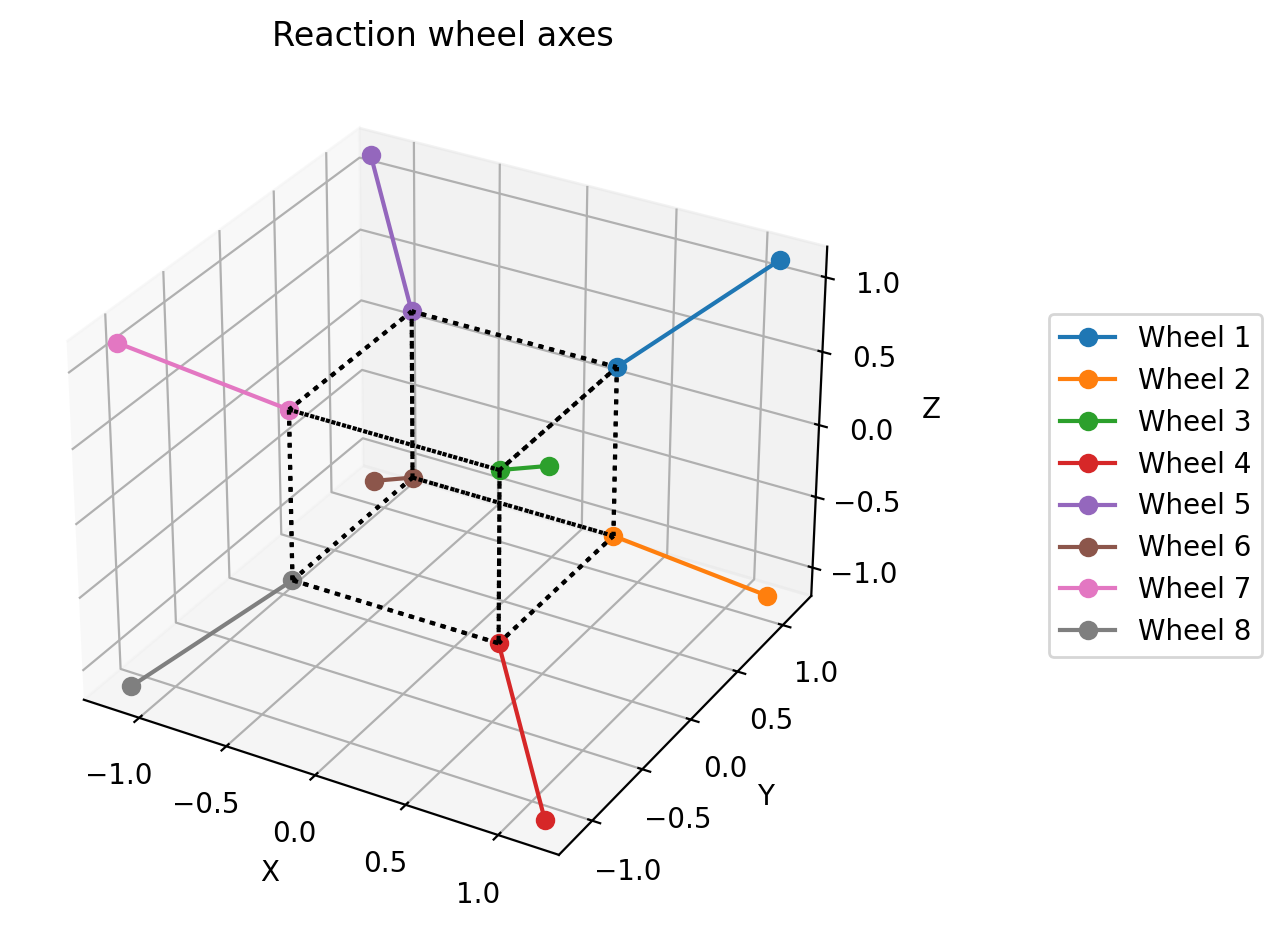
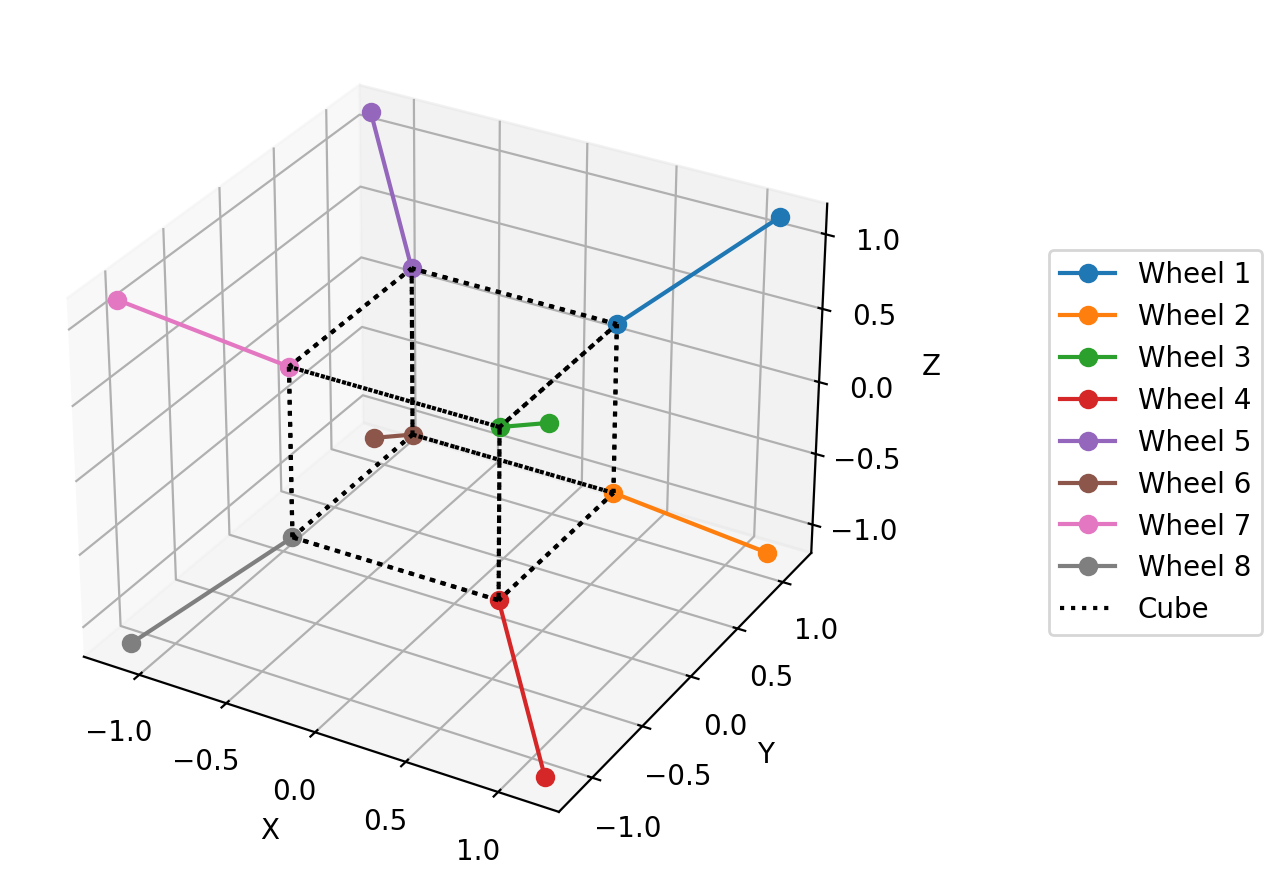
Removed extra title

diff --git a/ps9_actuators_testing_options.py b/ps9_actuators_testing_options.py
@@ -49,20 +49,23 @@ for r_ind, rw in enumerate(a_rw.T):
             label=f"Wheel {r_ind+1}")
 
 # Plot the unit cube
+labelled_cube = False
 normalizer = 1/np.sqrt(3)
 for xsign in [-1 * normalizer, 1 * normalizer]:
     for ysign in [-1 * normalizer, 1 * normalizer]:
         for zsign in [-1 * normalizer, 1 * normalizer]:
             ax.plot([xsign, xsign], [ysign, ysign], [zsign, -zsign], 'k:')
             ax.plot([xsign, xsign], [ysign, -ysign], [zsign, zsign], 'k:')
-            ax.plot([xsign, -xsign], [ysign, ysign], [zsign, zsign], 'k:')
+            ax.plot([xsign, -xsign], [ysign, ysign], [zsign, zsign], 'k:',
+                    label=f"Cube" if not labelled_cube else None)
+            labelled_cube = True
 
 ax.set_xlabel('X')
 ax.set_ylabel('Y')
 ax.set_zlabel('Z')
 # ax.set_box_aspect([1.0, 1.0, 1.0])
 plt.legend(loc='center left', bbox_to_anchor=(1.2, 0.5))
-plt.title("Reaction wheel axes")
+# plt.title("Reaction wheel axes")
 plt.tight_layout()
 plt.savefig(file_path + "rw_axes.png", dpi=dpi, bbox_inches=bbox_inches)
 # plt.show()
@@ -183,7 +186,7 @@ ax.view_init(elev=30, azim=115)
 # ax.set_box_aspect([1.0, 1.0, 1.0])
 ax.set_box_aspect([x_length, y_length, z_length])
 plt.legend(loc='center left', bbox_to_anchor=(1.2, 0.5))
-plt.title("Thruster positions and axes")
+# plt.title("Thruster positions and axes")
 plt.tight_layout()
 fig.savefig(file_path + "thruster_axes.png", dpi=dpi, bbox_inches=bbox_inches)
 # fig.show()
@@ -236,7 +239,7 @@ ax.set_yticks(np.linspace(z_lims[0], z_lims[1], 5))
 # ax.set_box_aspect([1.0, 1.0, 1.0])
 # ax.set_box_aspect([x_length, y_length, z_length])
 plt.legend(loc='center left', bbox_to_anchor=(1.2, 0.5))
-plt.title("Thruster positions and axes")
+# plt.title("Thruster positions and axes")
 plt.tight_layout()
 fig.savefig(file_path + "thruster_axes_2d.png", dpi=dpi, bbox_inches=bbox_inches)
 # fig.show()
